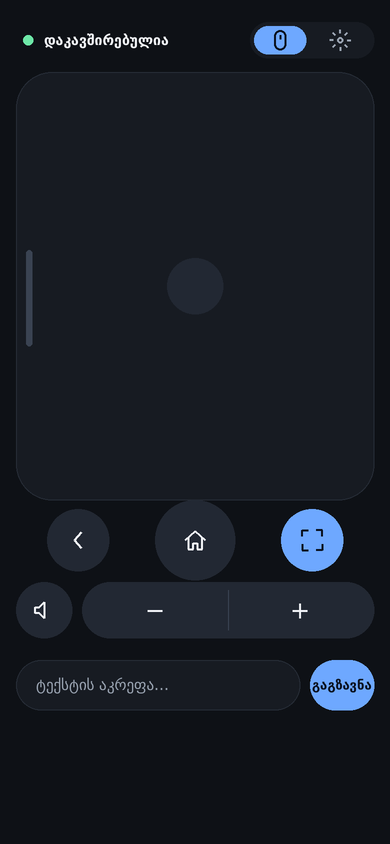
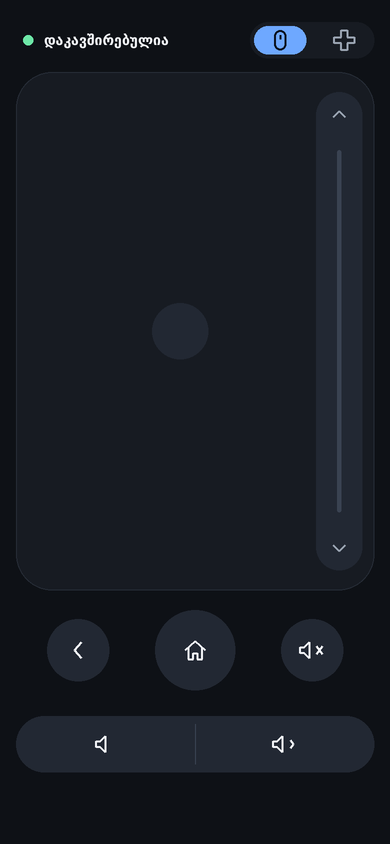
Add files via upload

diff --git a/app/src/main/java/com/example/tvbrowser/MainActivity.kt b/app/src/main/java/com/example/tvbrowser/MainActivity.kt
@@ -603,13 +603,32 @@ input:focus{outline:.25vw solid #6EA8FF}
         touchAt((curX - (content.left - cursor.left)), (curY - (content.top - cursor.top)))
     }
 
+    private fun focusDir(code: Int): Int? = when (code) {
+        KeyEvent.KEYCODE_DPAD_UP -> View.FOCUS_UP
+        KeyEvent.KEYCODE_DPAD_DOWN -> View.FOCUS_DOWN
+        KeyEvent.KEYCODE_DPAD_LEFT -> View.FOCUS_LEFT
+        KeyEvent.KEYCODE_DPAD_RIGHT -> View.FOCUS_RIGHT
+        else -> null
+    }
+
+    /** Sends a key as if it came from the TV remote. Arrow keys also move the focus, which the system
+     *  normally does only for real key presses. */
     private fun pressKey(code: Int) {
         val t = SystemClock.uptimeMillis()
         val down = KeyEvent(t, t, KeyEvent.ACTION_DOWN, code, 0)
         val up = KeyEvent(t, t, KeyEvent.ACTION_UP, code, 0)
-        val d = dialog
-        if (d != null) { d.dispatchKeyEvent(down); d.dispatchKeyEvent(up) }
-        else { dispatchKeyEvent(down); dispatchKeyEvent(up) }
+        val handled = dispatchKeyEvent(down)
+        dispatchKeyEvent(up)
+        val dir = focusDir(code)
+        if (!handled && dir != null) {
+            val f = currentFocus
+            if (f != null) {
+                val n = f.focusSearch(dir)
+                if (n != null) n.requestFocus(dir)
+            } else {
+                (overlay ?: web).requestFocus()
+            }
+        }
     }
 
     override fun dispatchKeyEvent(e: KeyEvent): Boolean {
@@ -876,12 +895,28 @@ input:focus{outline:.25vw solid #6EA8FF}
     private fun volume(a: String) {
         val am = getSystemService(AUDIO_SERVICE) as AudioManager
         try {
+            if (am.isVolumeFixed) { toast(getString(R.string.volume_fixed)); return }
+            val st = AudioManager.STREAM_MUSIC
+            val before = am.getStreamVolume(st)
             when (a) {
-                "up" -> am.adjustStreamVolume(AudioManager.STREAM_MUSIC, AudioManager.ADJUST_RAISE, AudioManager.FLAG_SHOW_UI)
-                "dn" -> am.adjustStreamVolume(AudioManager.STREAM_MUSIC, AudioManager.ADJUST_LOWER, AudioManager.FLAG_SHOW_UI)
+                "up" -> am.adjustStreamVolume(st, AudioManager.ADJUST_RAISE, AudioManager.FLAG_SHOW_UI)
+                "dn" -> am.adjustStreamVolume(st, AudioManager.ADJUST_LOWER, AudioManager.FLAG_SHOW_UI)
                 else -> if (Build.VERSION.SDK_INT >= 23) {
-                    am.adjustStreamVolume(AudioManager.STREAM_MUSIC, AudioManager.ADJUST_TOGGLE_MUTE, AudioManager.FLAG_SHOW_UI)
+                    am.adjustStreamVolume(st, AudioManager.ADJUST_TOGGLE_MUTE, AudioManager.FLAG_SHOW_UI)
                 }
+            }
+            if (a == "mute") return
+            val atLimit = (a == "up" && before >= am.getStreamMaxVolume(st)) || (a == "dn" && before <= 0)
+            if (!atLimit && am.getStreamVolume(st) == before) {
+                // some devices (e.g. Fire TV) ignore stream changes: try the media volume key instead
+                val key = if (a == "up") KeyEvent.KEYCODE_VOLUME_UP else KeyEvent.KEYCODE_VOLUME_DOWN
+                try {
+                    am.dispatchMediaKeyEvent(KeyEvent(KeyEvent.ACTION_DOWN, key))
+                    am.dispatchMediaKeyEvent(KeyEvent(KeyEvent.ACTION_UP, key))
+                } catch (_: Exception) {}
+                handler.postDelayed({
+                    if (am.getStreamVolume(st) == before) toast(getString(R.string.volume_fixed))
+                }, 400)
             }
         } catch (_: Exception) {}
     }

diff --git a/app/src/main/java/com/example/tvbrowser/RemotePage.kt b/app/src/main/java/com/example/tvbrowser/RemotePage.kt
@@ -25,7 +25,7 @@ header{display:flex;align-items:center;justify-content:space-between;height:40px
 #nav{display:none;grid-template-columns:repeat(4,1fr);gap:10px}
 #nav button{height:52px;border-radius:26px}
 #dw{display:none;flex:1;align-items:center;justify-content:center;min-height:0}
-#dpad{height:100%;max-width:100%;aspect-ratio:1/1;border-radius:50%;background:#171B22;border:1px solid #262C36;position:relative}
+#dpad{width:260px;height:260px;border-radius:50%;background:#171B22;border:1px solid #262C36;position:relative}
 #dpad button{position:absolute;background:transparent;width:22%;height:22%;border-radius:50%}
 #dpad .u{top:5%;left:39%}#dpad .dn{bottom:5%;left:39%}#dpad .l{left:5%;top:39%}#dpad .r{right:5%;top:39%}
 #dpad .ok{left:50%;top:50%;width:40%;height:40%;transform:translate(-50%,-50%);background:#6EA8FF;color:#0B1220;font-weight:700;font-size:18px}
@@ -94,10 +94,9 @@ body.m1 #dw{display:flex}
 <div class="r1">
 <button data-k="back" aria-label="@@remote_back@@"><svg class="i"><use href="#back"/></svg></button>
 <button class="home" data-a="home" aria-label="@@remote_home@@"><svg class="i"><use href="#home"/></svg></button>
-<button class="acc" data-k="full" aria-label="@@remote_fullscreen@@"><svg class="i"><use href="#full"/></svg></button>
+<button data-v="mute" aria-label="@@remote_mute@@"><svg class="i"><use href="#vm"/></svg></button>
 </div>
 <div class="r2">
-<button class="mute" data-v="mute" aria-label="@@remote_mute@@"><svg class="i"><use href="#vm"/></svg></button>
 <div class="vol"><button data-v="dn" aria-label="@@remote_vol_down@@"><svg class="i"><use href="#vd"/></svg></button><button data-v="up" aria-label="@@remote_vol_up@@"><svg class="i"><use href="#vu"/></svg></button></div>
 </div>
 
@@ -107,11 +106,13 @@ var K=new URLSearchParams(location.search).get('k'),ws=null,mode=0;
 function conn(){
  ws=new WebSocket('ws://'+location.host+'/ws?k='+K);
  ws.onopen=function(){g('dot').className='ok';g('stx').textContent='@@remote_connected@@';send('mode '+mode);};
- ws.onmessage=function(e){if(e.data=='ti 1'){g('tp').className='show';g('tpi').focus();}else if(e.data=='ti 0'){g('tp').className='';}};
+ ws.onmessage=function(e){if(e.data=='ti 1'){g('tp').className='show';g('tpi').focus();setTimeout(fit,30);}else if(e.data=='ti 0'){g('tp').className='';setTimeout(fit,30);}};
  ws.onclose=function(){g('dot').className='';g('stx').textContent='@@remote_connecting@@';setTimeout(conn,1000);};
 }
 function send(s){if(ws&&ws.readyState==1)ws.send(s);}
-function setMode(m){mode=m;g('m0').className=m==0?'on':'';g('m1').className=m==1?'on':'';
+function fit(){var w=g('dw'),d=g('dpad'),s=Math.min(w.clientWidth,w.clientHeight);if(s>0){d.style.width=s+'px';d.style.height=s+'px';}}
+window.addEventListener('resize',fit);
+function setMode(m){mode=m;setTimeout(fit,30);g('m0').className=m==0?'on':'';g('m1').className=m==1?'on':'';
  document.body.className=m==1?'m1':'';send('mode '+m);}
 g('m0').onclick=function(){setMode(0)};g('m1').onclick=function(){setMode(1)};
 var pad=g('pad'),lx=0,ly=0,sx=0,sy=0,t0=0,moved=0,ax=0,ay=0,tm=null;

diff --git a/app/src/main/java/com/example/tvbrowser/Ui.kt b/app/src/main/java/com/example/tvbrowser/Ui.kt
@@ -64,7 +64,9 @@ object Ui {
             px(sp)
             setTextColor(if (primary) ON_ACC else TEXT)
             stateListAnimator = null
-            minWidth = 0; minimumWidth = 0; minHeight = 0; minimumHeight = 0
+            minWidth = 0; minimumWidth = 0
+            minHeight = dp(ctx, 52f); minimumHeight = dp(ctx, 52f)
+            gravity = Gravity.CENTER
             background = btnBg(ctx, if (primary) ACC else SURF2, 26f)
             setPadding(dp(ctx, 40f), 0, dp(ctx, 40f), 0)
             isFocusable = true

diff --git a/tools/make_previews.py b/tools/make_previews.py
@@ -1,0 +1,140 @@
+#!/usr/bin/env python3
+"""Draws the UI preview images in docs/images/<lang>/ from the string files in app/src/main/res.
+Run from the project root:  python3 tools/make_previews.py   (needs Pillow and the DejaVu fonts)."""
+import re, math, os, glob
+from PIL import Image, ImageDraw, ImageFont
+BG=(14,17,22);SURF=(23,27,34);SURF2=(34,40,51);LINE=(38,44,54);TEXT=(242,244,248);MUTED=(154,164,178);ACC=(110,168,255);ONACC=(11,18,32);GRAY=(58,67,82)
+FR='/usr/share/fonts/truetype/dejavu/DejaVuSans.ttf';FB='/usr/share/fonts/truetype/dejavu/DejaVuSans-Bold.ttf'
+S=2
+RES='app/src/main/res/'
+def strings(path):
+    t=open(path).read()
+    return {m.group(1):m.group(2).replace("\\'","'").replace('\\n','\n').replace('&amp;','&').replace('&lt;','<') for m in re.finditer(r'<string name="([a-z_0-9]+)">(.*?)</string>',t,re.S)}
+class Cv:
+    def __init__(s,w,h):
+        s.w,s.h=w,h; s.im=Image.new('RGB',(w*S,h*S),BG); s.d=ImageDraw.Draw(s.im); s.f={}
+    def font(s,sz,b=False):
+        k=(sz,b)
+        if k not in s.f: s.f[k]=ImageFont.truetype(FB if b else FR,int(sz*S))
+        return s.f[k]
+    def rr(s,x0,y0,x1,y1,r,fill=None,outline=None,w=1):
+        s.d.rounded_rectangle([x0*S,y0*S,x1*S,y1*S],radius=r*S,fill=fill,outline=outline,width=int(w*S))
+    def circ(s,cx,cy,r,fill=None,outline=None,w=1):
+        s.d.ellipse([(cx-r)*S,(cy-r)*S,(cx+r)*S,(cy+r)*S],fill=fill,outline=outline,width=int(w*S))
+    def ln(s,pts,col,w=2.2):
+        s.d.line([(x*S,y*S) for x,y in pts],fill=col,width=int(w*S),joint='curve')
+    def tx(s,x,y,t,sz=14,col=TEXT,b=False,anchor='lm'):
+        s.d.text((x*S,y*S),t,font=s.font(sz,b),fill=col,anchor=anchor)
+    def save(s,p):
+        os.makedirs(os.path.dirname(p),exist_ok=True); s.im.resize((s.w,s.h),Image.LANCZOS).save(p)
+    def icon(s,n,cx,cy,col):
+        L=lambda pts:s.ln([(cx+x,cy+y) for x,y in pts],col)
+        if n=='back':L([(3,-8),(-4,0),(3,8)])
+        elif n=='fwd':L([(-3,-8),(4,0),(-3,8)])
+        elif n=='reload':
+            s.d.arc([(cx-8)*S,(cy-8)*S,(cx+8)*S,(cy+8)*S],40,340,fill=col,width=int(2.2*S)); L([(5,-9),(8,-5),(3,-4)])
+        elif n=='home':L([(-10,0),(0,-9),(10,0)]);L([(-7,-2),(-7,9),(-2,9),(-2,3),(2,3),(2,9),(7,9),(7,-2)])
+        elif n=='bm':L([(-6,-9),(6,-9),(6,9),(0,4),(-6,9),(-6,-9)])
+        elif n=='hist':s.circ(cx,cy,9,outline=col,w=2.2);L([(0,-5),(0,0),(3,2)])
+        elif n=='folder':L([(-10,-6),(-4,-6),(-2,-3),(10,-3),(10,8),(-10,8),(-10,-6)])
+        elif n=='qr':
+            for ox,oy in((-9,-9),(2,-9),(-9,2)):s.rr(cx+ox,cy+oy,cx+ox+7,cy+oy+7,1,outline=col,w=2)
+            L([(2,3),(4,3)]);L([(7,3),(9,3)]);L([(2,6),(5,6)]);L([(8,9),(9,9)]);L([(2,9),(4,9)])
+        elif n=='desk':s.rr(cx-10,cy-8,cx+10,cy+4,2,outline=col,w=2.2);L([(-5,9),(5,9)]);L([(0,4),(0,9)])
+        elif n=='mouse':s.rr(cx-6,cy-10,cx+6,cy+10,6,outline=col,w=2.2);L([(0,-5),(0,-1)])
+        elif n=='dpad':L([(-3,-10),(3,-10),(3,-3),(10,-3),(10,3),(3,3),(3,10),(-3,10),(-3,3),(-10,3),(-10,-3),(-3,-3),(-3,-10)])
+        elif n=='gear':
+            s.circ(cx,cy,3,outline=col,w=2.2)
+            for a in range(0,360,45):
+                r=math.radians(a);L([(7*math.cos(r),7*math.sin(r)),(10.5*math.cos(r),10.5*math.sin(r))])
+        elif n=='go':L([(-9,0),(9,0)]);L([(3,-6),(9,0),(3,6)])
+        elif n=='up':L([(-6,3),(0,-3),(6,3)])
+        elif n=='dn':L([(-6,-3),(0,3),(6,-3)])
+        elif n=='vol':L([(-9,-3),(-5,-3),(0,-8),(0,8),(-5,3),(-9,3),(-9,-3)])
+        elif n=='volup':s.icon('vol',cx-3,cy,col);L([(5,-4),(8,0),(5,4)])
+        elif n=='mute':s.icon('vol',cx-3,cy,col);L([(4,-4),(10,4)]);L([(10,-4),(4,4)])
+    def cursor(s,x,y,k=1.0):
+        pts=[(0,0),(0,34),(9,26),(16,40),(22,37),(15,24),(27,24)]
+        s.d.polygon([((x+px*k)*S,(y+py*k)*S) for px,py in pts],fill=(255,255,255),outline=(0,0,0),width=int(1.5*S))
+
+def main_screen(L,lang):
+    c=Cv(1280,720)
+    c.rr(36,26,1244,100,37,fill=SURF,outline=LINE)
+    def btn(n,cx,prim=False):
+        c.circ(cx,63,26,fill=ACC if prim else SURF2); c.icon(n,cx,63,ONACC if prim else TEXT)
+    for n,cx in (('back',74),('fwd',134),('reload',194),('home',254)):btn(n,cx)
+    for n,cx in (('go',792),('bm',852),('hist',912),('folder',972),('qr',1032),('desk',1092),('mouse',1152),('gear',1212)):btn(n,cx,n in('mouse','go'))
+    c.rr(290,37,760,89,26,fill=BG,outline=LINE); c.tx(314,63,L['url_hint'],15,MUTED)
+    c.tx(640,270,L['start_title'],38,TEXT,True,'mm')
+    c.rr(380,320,900,380,30,fill=SURF,outline=LINE); c.tx(412,350,L['search_hint'],18,MUTED)
+    for i,(ch,nm) in enumerate((('Y','YouTube'),('V','Vimeo'),('W','Wikipedia'),('+',L['add']))):
+        x=300+i*190; add=ch=='+'
+        c.rr(x,430,x+170,590,24,fill=SURF if not add else BG,outline=LINE if not add else GRAY,w=1.5)
+        c.circ(x+85,490,32,fill=(36,48,73) if not add else None,outline=None if not add else GRAY,w=1.5)
+        c.tx(x+85,490,ch,28,ACC if not add else MUTED,True,'mm'); c.tx(x+85,550,nm,17,TEXT if not add else MUTED,True,'mm')
+    c.cursor(488,540,1.5)
+    c.save('docs/images/%s/main.png'%lang)
+
+def settings_screen(L,lang):
+    c=Cv(1280,1000)
+    c.circ(86,66,28,fill=SURF2); c.icon('back',86,66,TEXT); c.tx(130,66,L['settings'],34,TEXT,True)
+    def card(x,y,w,title,rows):
+        h=24+34+len(rows)*60+10; c.rr(x,y,x+w,y+h,24,fill=SURF,outline=LINE); c.tx(x+26,y+36,title,20,TEXT,True)
+        for i,(lab,kind,arg) in enumerate(rows):
+            ry=y+62+i*60; c.d.line([((x+26)*S,ry*S),((x+w-26)*S,ry*S)],fill=LINE,width=S)
+            c.tx(x+26,ry+30,lab,16,TEXT); rx=x+w-26
+            if kind=='slider':
+                tw=170;c.rr(rx-tw,ry+27,rx,ry+33,3,fill=SURF2);c.rr(rx-tw,ry+27,rx-tw+tw*arg,ry+33,3,fill=ACC);c.circ(rx-tw+tw*arg,ry+30,9,fill=ACC)
+            elif kind=='slidertxt':
+                tw=140;v,frac=arg;c.tx(rx-tw-14,ry+30,v,15,MUTED,False,'rm')
+                c.rr(rx-tw,ry+27,rx,ry+33,3,fill=SURF2);c.rr(rx-tw,ry+27,rx-tw+tw*frac,ry+33,3,fill=ACC);c.circ(rx-tw+tw*frac,ry+30,9,fill=ACC)
+            elif kind=='seg':
+                opts,sel=arg;ws=[len(o)*9+44 for o in opts];tot=sum(ws)+8;x0=rx-tot
+                c.rr(x0,ry+8,rx,ry+52,22,fill=BG);cx=x0+4
+                for i2,o in enumerate(opts):
+                    if i2==sel:c.rr(cx,ry+12,cx+ws[i2],ry+48,18,fill=ACC)
+                    c.tx(cx+ws[i2]/2,ry+30,o,14,ONACC if i2==sel else MUTED,True,'mm');cx+=ws[i2]
+            elif kind=='sw':
+                for i2,col in enumerate(((255,255,255),(255,213,74),(110,231,168),(255,138,122))):
+                    cx=rx-18-(3-i2)*40;c.circ(cx,ry+30,14,fill=col,outline=ACC if i2==0 else None,w=2.5)
+            elif kind=='btn':
+                tw=len(arg)*9+52;prim=arg in (L['update'],L['open']);c.rr(rx-tw,ry+8,rx,ry+52,22,fill=ACC if prim else SURF2);c.tx(rx-tw/2,ry+30,arg,14,ONACC if prim else TEXT,True,'mm')
+            elif kind=='txt':c.tx(rx,ry+30,arg,15,MUTED,False,'rm')
+        return h
+    cw=560;lx,rx_=50,50+cw+24
+    h1=card(lx,120,cw,L['mouse'],[(L['cursor_speed'],'slider',.6),(L['acceleration'],'slider',.4),(L['cursor_size'],'seg',(['S','M','L'],1)),(L['cursor_color'],'sw',0)])
+    h2=card(lx,120+h1+20,cw,L['control'],[(L['mode'],'seg',([L['mouse'],L['buttons']],0)),(L['scroll_speed'],'slider',.5),(L['language'],'seg',([L['lang_auto'],'English','ქართული'],0))])
+    card(lx,120+h1+20+h2+20,cw,L['update'],[(L['version'],'txt','2.31'),(L['update_link'],'txt','github.com/…/app-debug.apk'),(L['new_version'],'btn',L['update'])])
+    h4=card(rx_,120,cw,L['browser'],[(L['site_version'],'seg',(['Desktop','Tablet','Phone'],0)),(L['text_scale'],'seg',(['75%','100%','125%','150%'],1)),(L['overscan'],'slidertxt',('2.0%',.2)),(L['home_page'],'txt','google.com'),(L['autohide'],'seg',([L['off'],L['on']],1))])
+    card(rx_,120+h4+20,cw,L['data'],[(L['history'],'btn',L['clear']),(L['cookies_logins'],'btn',L['clear']),(L['sync'],'btn',L['open'])])
+    c.save('docs/images/%s/settings.png'%lang)
+
+def phone_screen(L,lang,buttons):
+    c=Cv(390,844)
+    c.circ(28,40,5,fill=(110,231,168));c.tx(44,40,L['remote_connected'],14,TEXT,True)
+    c.rr(250,22,374,58,18,fill=SURF)
+    c.rr(254,26,306,54,14,fill=SURF if buttons else ACC);c.icon('mouse',280,40,MUTED if buttons else ONACC)
+    c.rr(318,26,370,54,14,fill=ACC if buttons else SURF);c.icon('dpad',344,40,ONACC if buttons else MUTED)
+    if not buttons:
+        c.rr(16,72,374,590,36,fill=SURF,outline=LINE);c.circ(180,331,28,fill=SURF2)
+        c.rr(316,92,362,570,23,fill=SURF2);c.icon('up',339,114,MUTED);c.icon('dn',339,548,MUTED);c.rr(337,150,341,512,2,fill=GRAY)
+    else:
+        for i in range(8):
+            x=16+(i%4)*92;y=72+(i//4)*62
+            c.rr(x,y,x+84,y+52,26,fill=SURF2);c.icon(('fwd','reload','bm','hist','folder','back','gear','desk')[i],x+42,y+26,TEXT)
+        c.circ(195,400,170,fill=SURF,outline=LINE);c.circ(195,400,66,fill=ACC);c.tx(195,400,'OK',20,ONACC,True,'mm')
+        c.icon('up',195,262,TEXT);c.icon('dn',195,538,TEXT);c.icon('back',58,400,TEXT);c.icon('fwd',332,400,TEXT)
+    c.circ(78,650,31,fill=SURF2);c.icon('back',78,650,TEXT)
+    c.circ(195,650,40,fill=SURF2);c.icon('home',195,650,TEXT)
+    c.circ(312,650,31,fill=SURF2);c.icon('mute',312,650,TEXT)
+    c.rr(16,716,374,772,28,fill=SURF2);c.d.line([(195*S,724*S),(195*S,764*S)],fill=GRAY,width=S)
+    c.icon('vol',105,744,TEXT);c.icon('volup',285,744,TEXT)
+    c.save('docs/images/%s/%s.png'%(lang,'phone-buttons' if buttons else 'phone'))
+
+langs={'en':RES+'values/strings.xml'}
+for p in sorted(glob.glob(RES+'values-*/strings.xml')): langs[p.split('values-')[1].split('/')[0]]=p
+base=strings(langs['en'])
+for lang,path in langs.items():
+    L=dict(base); L.update(strings(path))
+    main_screen(L,lang);settings_screen(L,lang);phone_screen(L,lang,False);phone_screen(L,lang,True)
+print('previews:',', '.join(langs))

diff --git a/README.ka.md b/README.ka.md
@@ -6,11 +6,12 @@
 
 მარტივი და თანამედროვე ბრაუზერი **Google TV / Chromecast with Google TV, Android TV და Amazon Fire TV**-ისთვის, შექმნილი ფილმებისა და ვიდეოების დიდ ეკრანზე სანახავად.
 
-| | | |
-|---|---|---|
-| ![მთავარი ეკრანი](docs/images/ka/main.png) | ![პარამეტრები](docs/images/ka/settings.png) | ![ტელეფონის პულტი](docs/images/ka/phone.png) |
+| | |
+|---|---|
+| ![მთავარი ეკრანი](docs/images/ka/main.png) | ![პარამეტრები](docs/images/ka/settings.png) |
+| ![ტელეფონის ტრეკპადი](docs/images/ka/phone.png) | ![ტელეფონის ღილაკების რეჟიმი](docs/images/ka/phone-buttons.png) |
 
-*ინტერფეისის ნიმუშები. შეგიძლიათ `docs/images/`-ში რეალური სქრინებით ჩაანაცვლოთ.*
+*ინტერფეისის ნიმუშები, შექმნილია `tools/make_previews.py`-ით. სურვილისამებრ ჩაანაცვლეთ რეალური სქრინებით `docs/images/`-ში.*
 
 ## შესაძლებლობები
 
@@ -42,6 +43,13 @@
 | უკან | Back | Back |
 
 ტელეფონით: პანელზე დააჭირეთ **ტელეფონის** იკონს, დაასკანერეთ QR კოდი (იგივე Wi-Fi) და გამოიყენეთ ტრეკპადი. რეჟიმის გადამრთველი ტრეკპადს ისრების წრედ და ბრაუზერის ღილაკებად აქცევს.
+
+## ცნობილი შეზღუდვები
+
+- DRM-იანი საიტები (Netflix და მსგავსი) WebView-ში არ ითამაშებს.
+- ზოგი ჩაშენებული ფლეერი (სხვა საიტის ჩარჩოში) შეთავაზებიდან სრულ ეკრანზე ვერ გადადის; გამოიყენეთ ფლეერის თავისი სრული ეკრანის ღილაკი.
+- ტელეფონის ხმის ღილაკები იმ მოწყობილობის ხმას ცვლის, სადაც აპი მუშაობს. სტრიმინგის მოწყობილობები, რომლებიც ტელევიზორის ხმას იყენებენ (მაგალითად ზოგი Fire TV), მას უგულებელყოფენ და აპი ამას გეტყვით.
+- სინქრონიზაცია ბუქმარკებსა და ისტორიას თქვენს Firebase პროექტში ინახავს; ერთ მოწყობილობაზე წაშლილი სანიშნე შერწყმისას შეიძლება დაბრუნდეს.
 
 ## სინქრონიზაცია
 

diff --git a/README.md b/README.md
@@ -6,11 +6,12 @@
 
 A simple, modern web browser for **Google TV / Chromecast with Google TV, Android TV and Amazon Fire TV**, made for watching films and videos on the big screen.
 
-| | | |
-|---|---|---|
-| ![Main screen](docs/images/en/main.png) | ![Settings](docs/images/en/settings.png) | ![Phone remote](docs/images/en/phone.png) |
+| | |
+|---|---|
+| ![Main screen](docs/images/en/main.png) | ![Settings](docs/images/en/settings.png) |
+| ![Phone trackpad](docs/images/en/phone.png) | ![Phone buttons mode](docs/images/en/phone-buttons.png) |
 
-*UI previews. You can replace them with real screenshots in `docs/images/`.*
+*UI previews, generated by `tools/make_previews.py`. Replace them with real screenshots in `docs/images/` if you like.*
 
 ## Features
 
@@ -42,6 +43,13 @@ A simple, modern web browser for **Google TV / Chromecast with Google TV, Androi
 | Back | Back | Back |
 
 On your phone: press the **phone** icon in the toolbar, scan the QR code (same Wi-Fi), then use the trackpad. The right-hand mode switch turns the trackpad into a D-pad with the browser buttons.
+
+## Known limitations
+
+- Sites with DRM (Netflix and similar) do not play in a WebView.
+- Some embedded players (inside another site's frame) cannot be switched to fullscreen from the prompt; use the player's own fullscreen button.
+- The phone volume buttons change the volume of the device running the app. Streaming sticks that use the TV's volume (for example some Fire TV models) ignore it, and the app says so.
+- Syncing keeps bookmarks and history in your own Firebase project; a bookmark deleted on one device can come back when merging.
 
 ## Sync
 

diff --git a/CHANGELOG.md b/CHANGELOG.md
@@ -1,0 +1,10 @@
+# Changelog
+
+## 2.x
+- Browser for TV with mouse and button modes, Desktop/Tablet/Phone site versions, bookmarks, history, downloads and files.
+- Phone as a remote: QR pairing, trackpad, D-pad mode, text field with Go, scroll strip, mute and volume.
+- Video fullscreen prompt.
+- Firebase sync with an ID per device: merge or replace.
+- In-app updates from GitHub releases.
+- Adjustable screen-edge margin (overscan) in steps of 0.1% with corner-arc guide.
+- English and Georgian; more languages by adding a `values-XX/strings.xml` file.

diff --git a/docs/images/README.md b/docs/images/README.md
@@ -1,2 +1,2 @@
-The images in `en/` and `ka/` are UI previews. Replace them with real screenshots of the app on your TV (keep the file names `main.png`, `settings.png`, `phone.png`).
+The images in `en/` and `ka/` are UI previews drawn by `tools/make_previews.py` (one folder per language in `app/src/main/res`). Replace them with real screenshots of the app on your TV (keep the file names `main.png`, `settings.png`, `phone.png`).
 `setup-*.png` are screenshots of the Firebase console and the GitHub secrets page.
